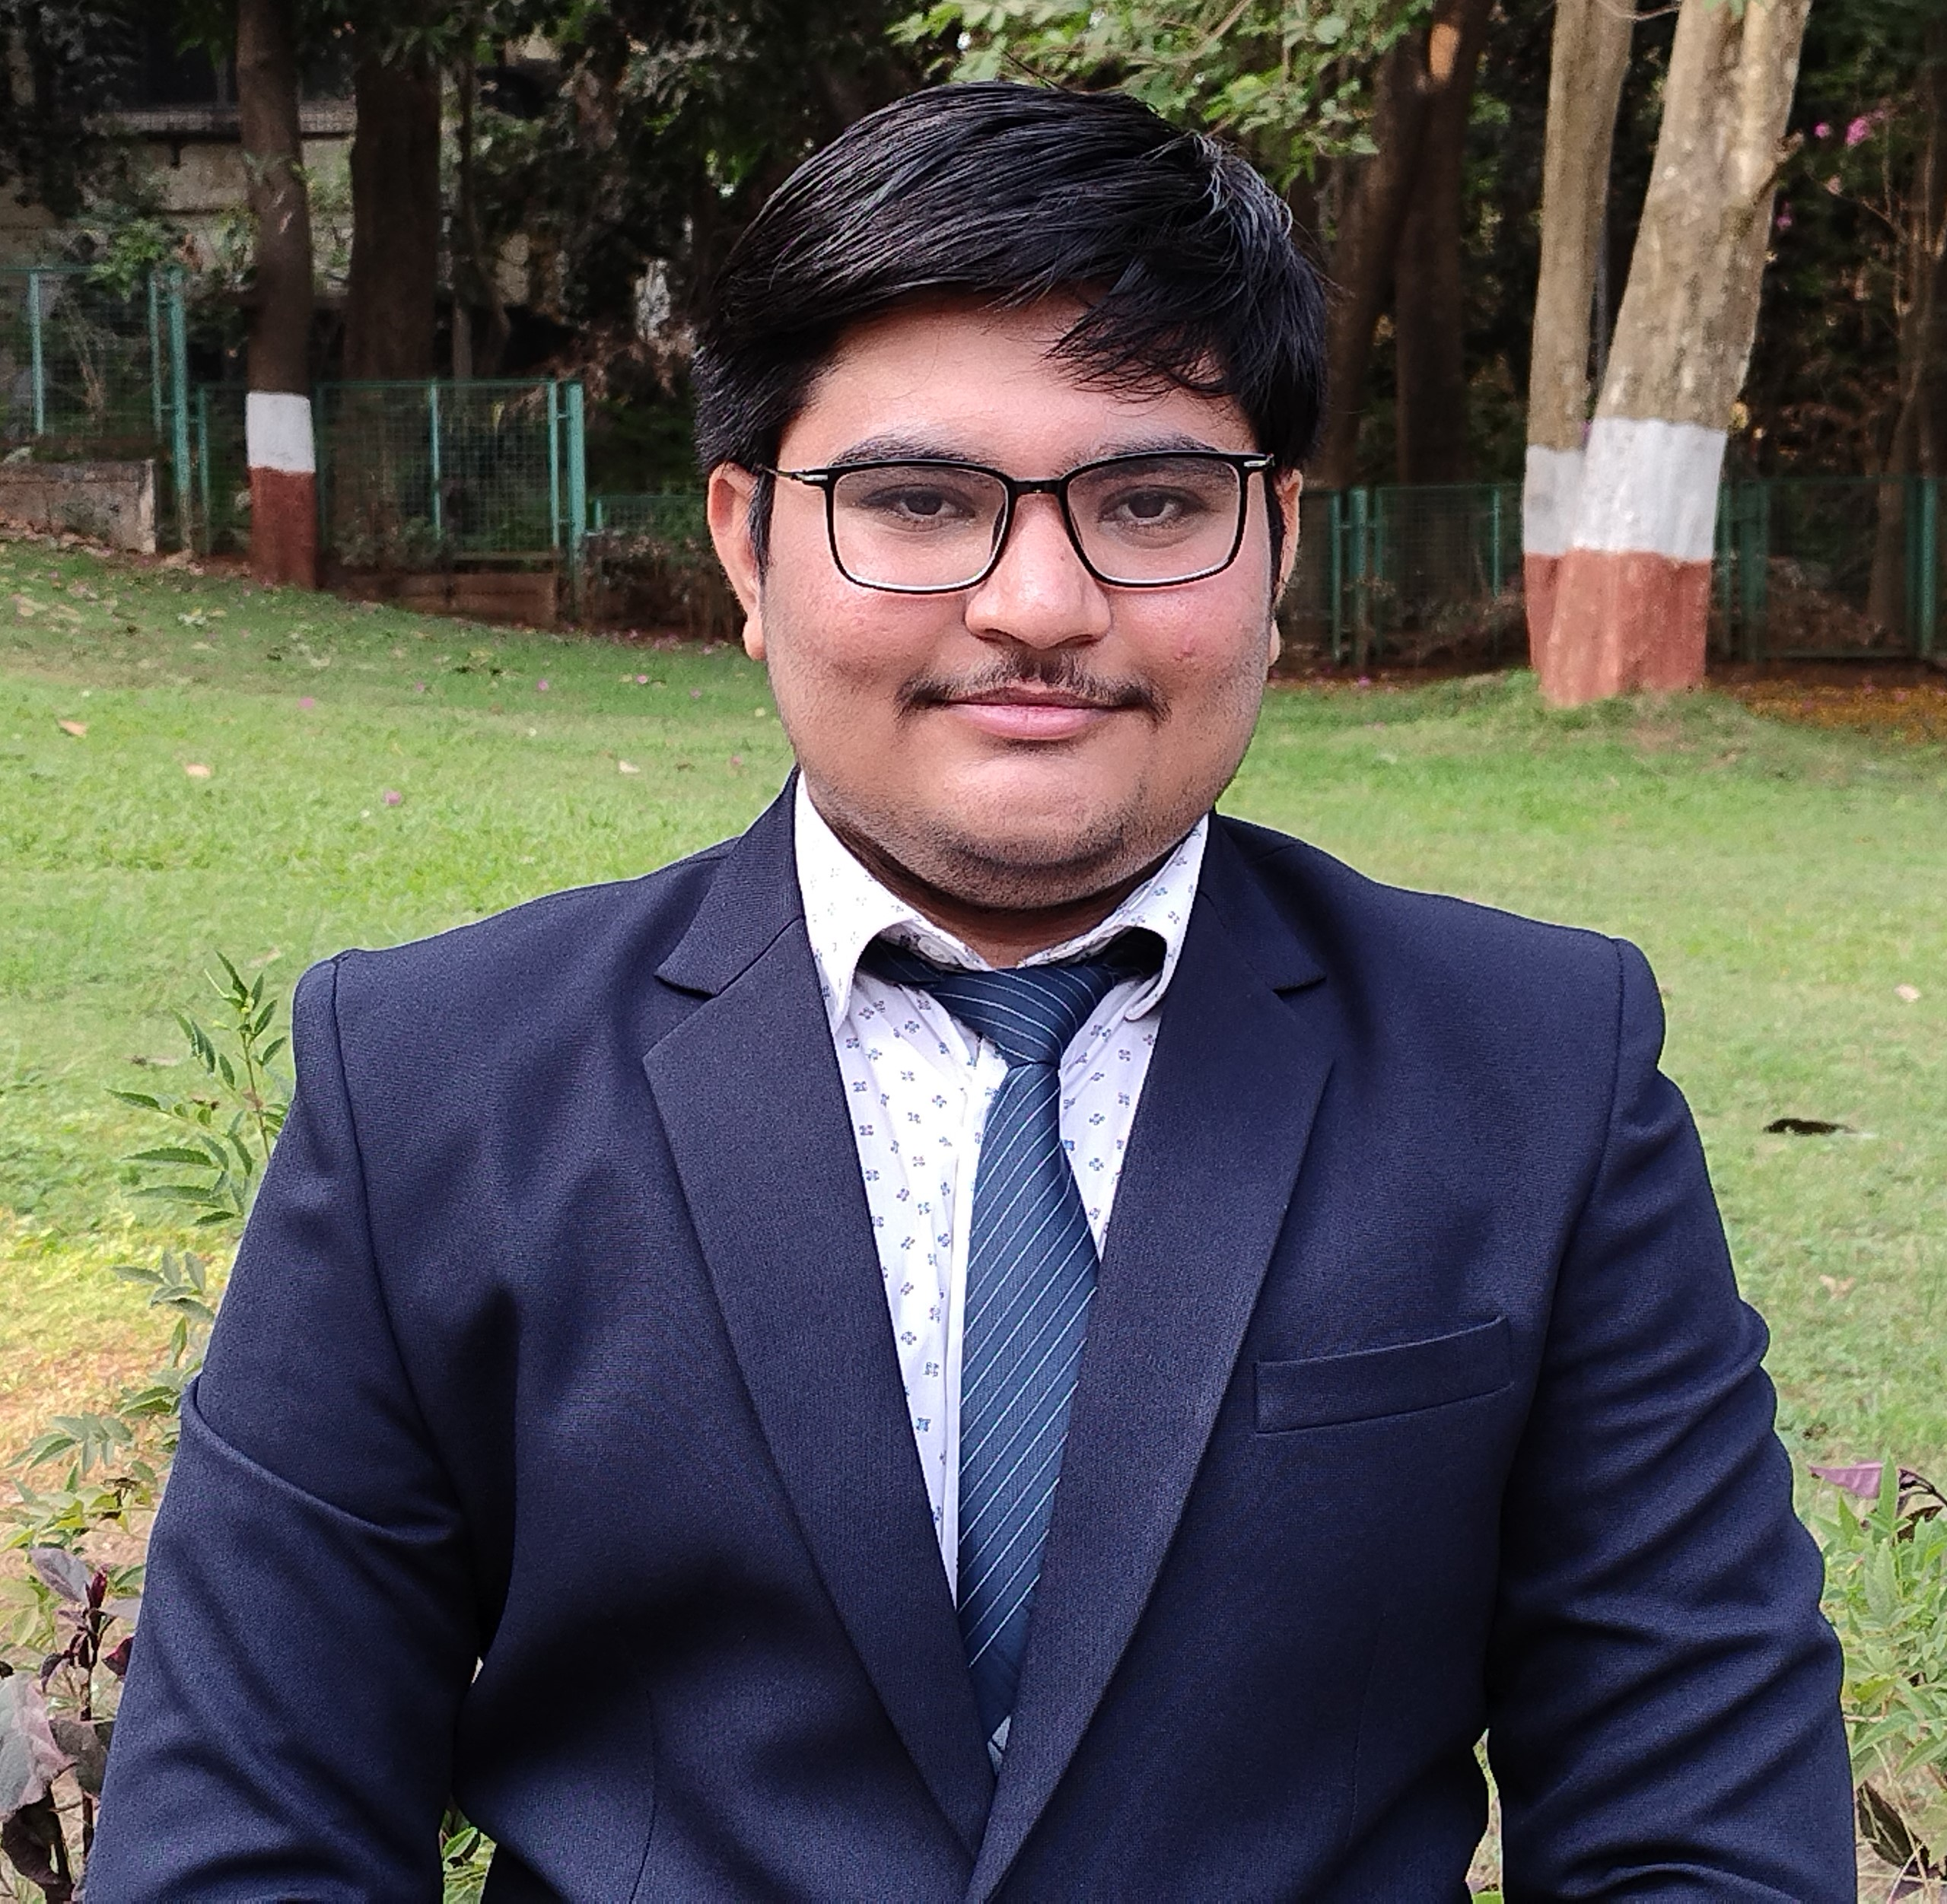
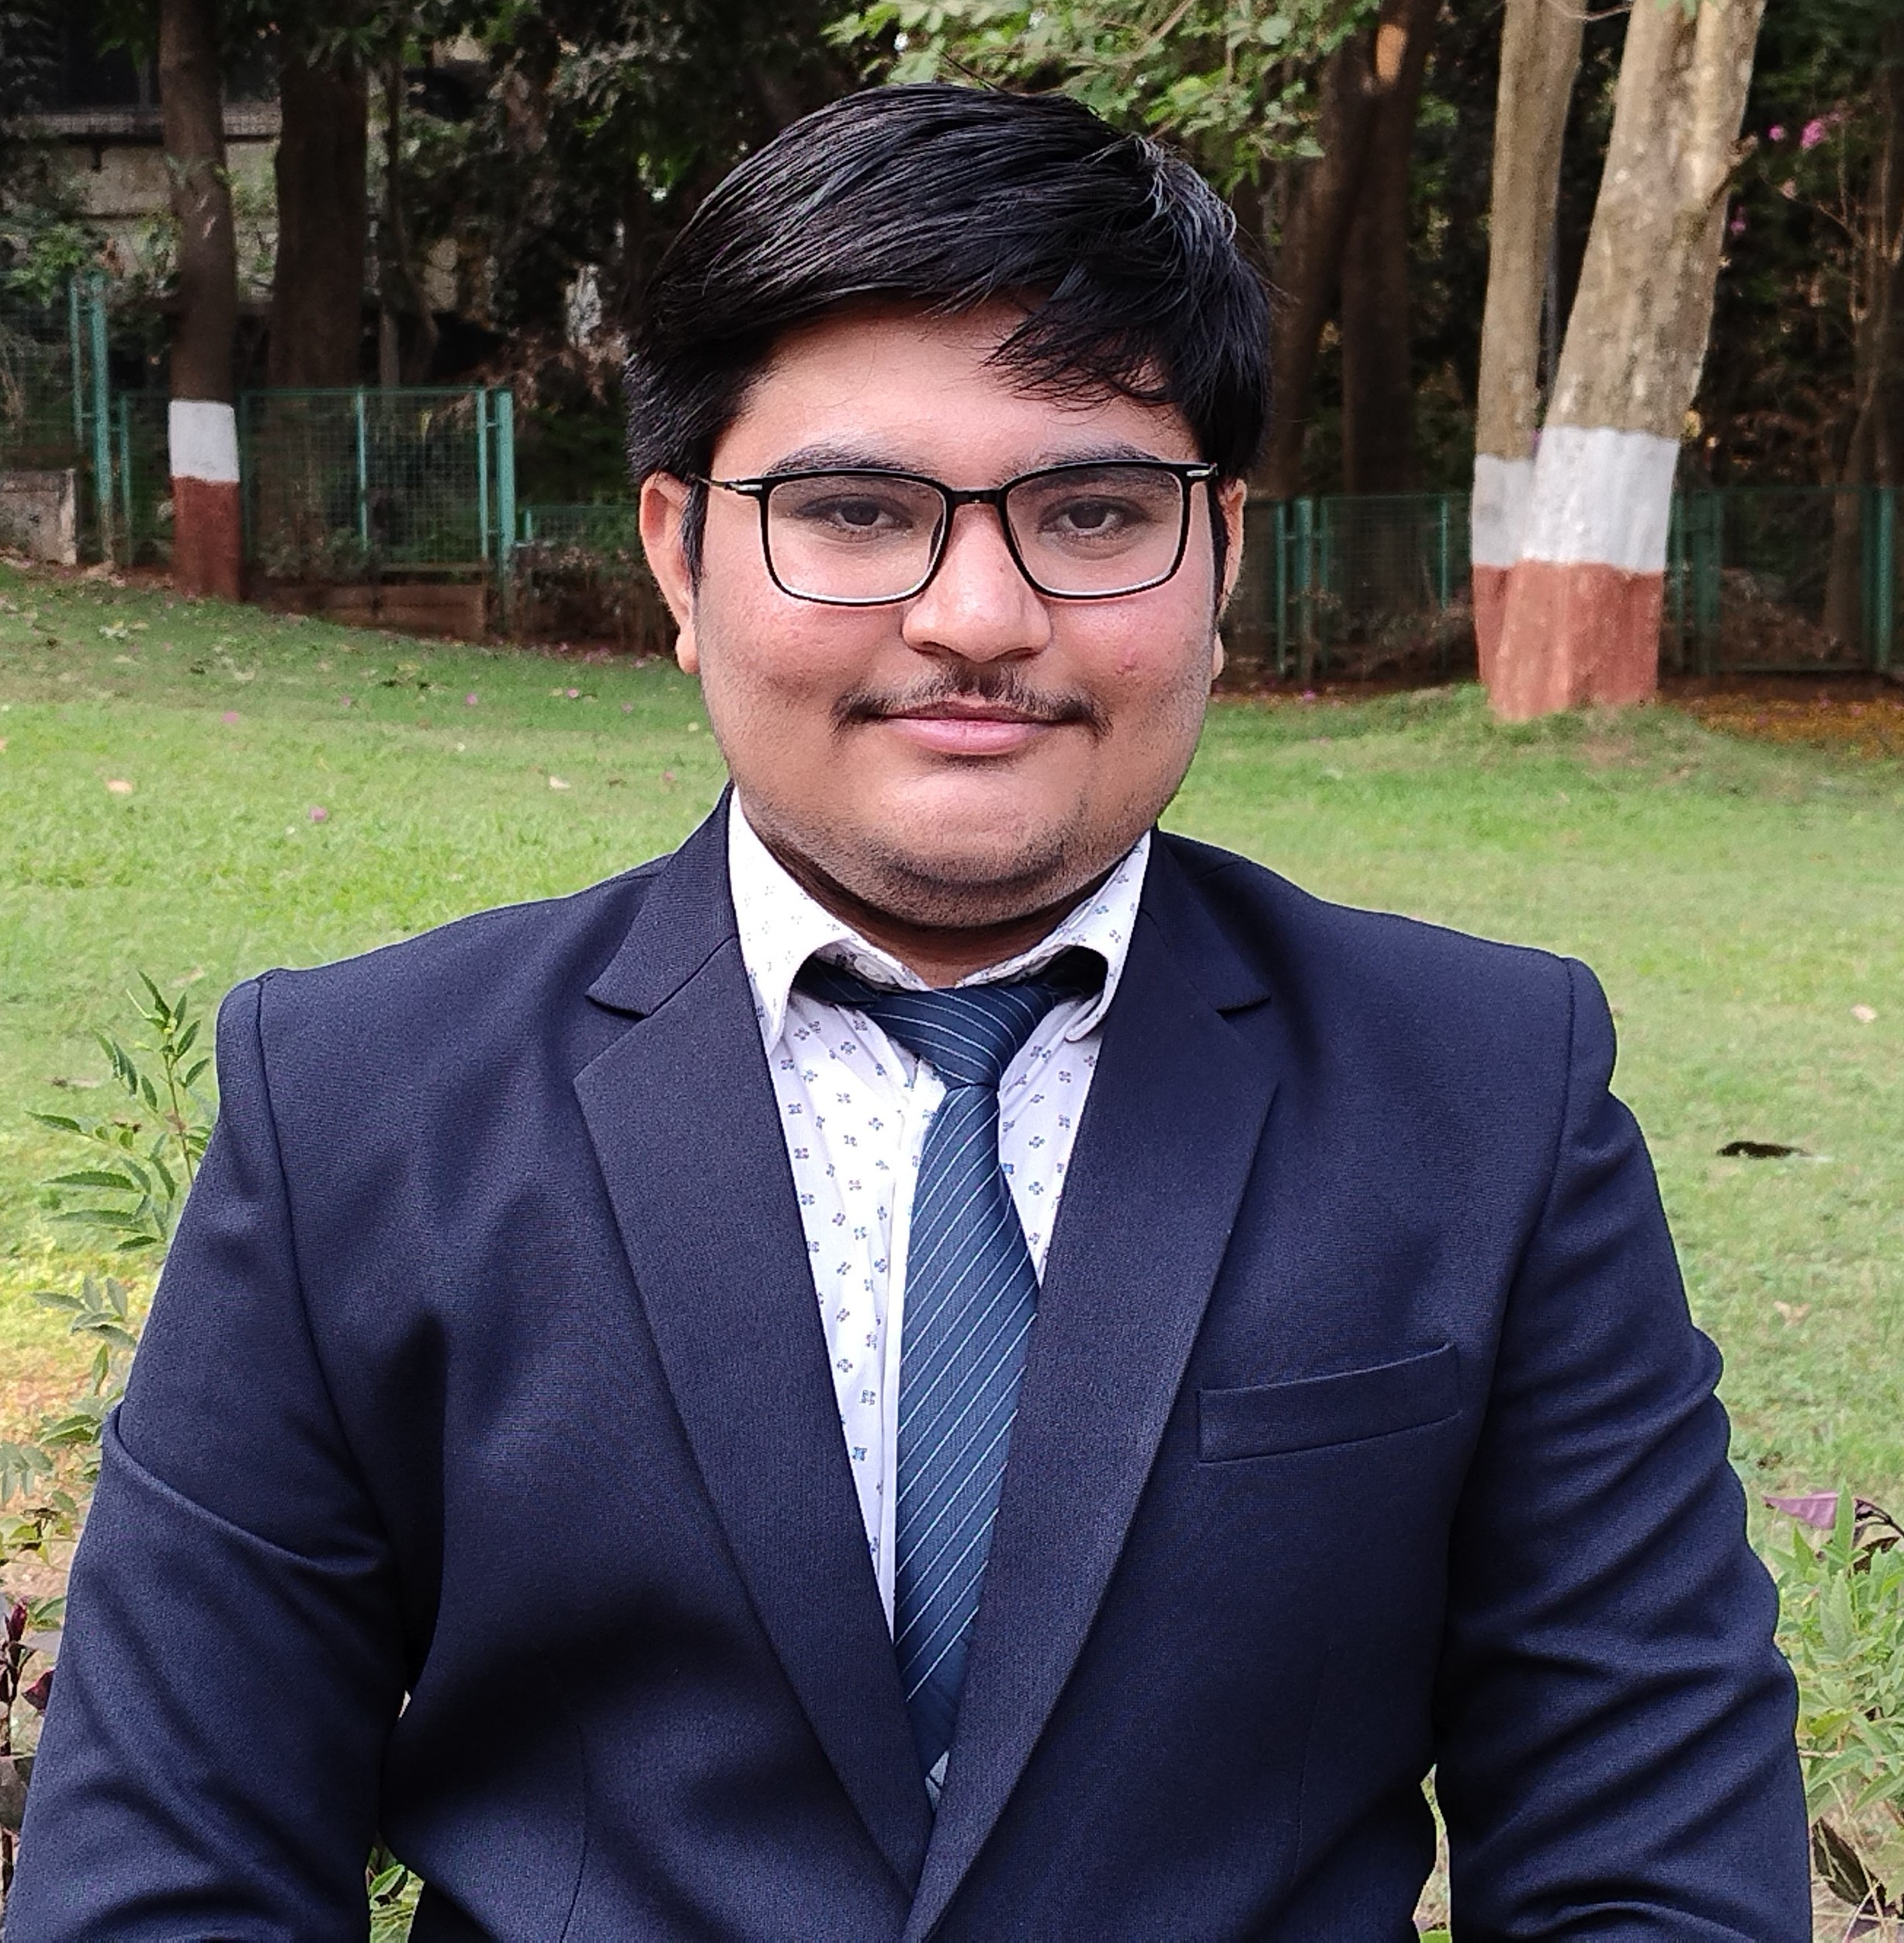
Updated Social Platforms

diff --git a/style.css b/style.css
@@ -109,121 +109,137 @@ nav a:hover{
    HERO
 =========================== */
 
-#hero{
-
-    display:flex;
-
-    flex-direction:column;
-
-    justify-content:center;
-
-    align-items:center;
-
-    text-align:center;
-
-    min-height:90vh;
-
+#hero {
+    display: flex;
+    flex-direction: column;
+    justify-content: center;
+    align-items: center;
+    min-height: 90vh;
+    text-align: center;
 }
 
-#hero img{
+.hero-image {
+    width: 220px;
+    height: 220px;
+    margin-bottom: 35px;
 
-    width:220px;
+    object-fit: cover;
 
-    height:220px;
-
-    object-fit:cover;
-
-    border-radius:50%;
-
-    border:5px solid #58a6ff;
-
-    margin-bottom:35px;
-
+    border: 5px solid #58a6ff;
+    border-radius: 50%;
 }
 
-#hero h1{
-
-    font-size:4rem;
-
-    margin-bottom:10px;
+#hero h1 {
+    margin-bottom: 10px;
+    font-size: 4rem;
 }
 
-#hero h2{
-
-    color:#58a6ff;
-
-    margin-bottom:25px;
-
-    font-weight:500;
+#hero h2 {
+    margin-bottom: 25px;
+    color: #58a6ff;
+    font-weight: 500;
 }
 
-#hero p{
+#hero p {
+    max-width: 700px;
+    margin-bottom: 40px;
 
-    max-width:700px;
-
-    color:#b0bac5;
-
-    font-size:1.1rem;
-
-    margin-bottom:40px;
-
+    color: #b0bac5;
+    font-size: 1.1rem;
 }
 
 
 /* ===========================
-   BUTTONS
+   HERO ACTIONS
 =========================== */
 
-#hero div{
-
-    display:flex;
-
-    gap:20px;
-
-    flex-wrap:wrap;
-
-    justify-content:center;
-
-}
-
-#hero a{
-
-    text-decoration:none;
-
-    padding:14px 32px;
-
-    border-radius:10px;
-
-    transition:.3s;
-
-    font-weight:600;
-
+.hero-actions {
+    display: flex;
+    justify-content: center;
+    align-items: center;
+    flex-wrap: wrap;
+    gap: 30px;
 }
 
 
-/* Resume */
+/* ===========================
+   RESUME BUTTON
+=========================== */
 
-#hero a:first-child{
+.resume-btn {
+    display: flex;
+    align-items: center;
+    gap: 10px;
 
-    background:#58a6ff;
+    padding: 14px 28px;
 
-    color:white;
+    background: #58a6ff;
+    color: #fff;
+
+    border-radius: 10px;
+    text-decoration: none;
+    font-weight: 600;
+
+    transition: all 0.3s ease;
 }
 
-/* GitHub + LinkedIn */
-
-#hero a:not(:first-child){
-
-    border:1px solid #58a6ff;
-
-    color:#58a6ff;
-
+.resume-btn:hover {
+    transform: translateY(-3px);
 }
 
-#hero a:hover{
 
-    transform:translateY(-3px);
+/* ===========================
+   SOCIAL LINKS
+=========================== */
 
+.social-links {
+    display: flex;
+    gap: 20px;
+}
+
+.social-links a {
+    display: flex;
+    justify-content: center;
+    align-items: center;
+
+    width: 52px;
+    height: 52px;
+
+    border: 1px solid #30363d;
+    border-radius: 50%;
+
+    color: #58a6ff;
+    text-decoration: none;
+
+    transition: all 0.3s ease;
+}
+
+.social-links a:hover {
+    background: #58a6ff;
+    transform: translateY(-3px);
+}
+
+
+/* Font Awesome icons */
+
+.social-links i {
+    font-size: 1.5rem;
+    transition: color 0.3s ease;
+}
+
+.social-links a:hover i {
+    color: #fff;
+}
+
+
+/* Credly logo */
+
+.social-links img {
+    width: 26px;
+    height: 26px;
+
+    object-fit: contain;
+    display: block;
 }
 
 

diff --git a/index.html b/index.html
@@ -38,13 +38,13 @@
 
                 <li><a href="#about">About</a></li>
 
-                <li><a href="#projects">Projects</a></li>
-
                 <li><a href="#skills">Skills</a></li>
 
                 <li><a href="#experience">Experience</a></li>
 
                 <li><a href="#education">Education</a></li>
+
+                <li><a href="#projects">Projects</a></li>
 
                 <li><a href="#contact">Contact</a></li>
 
@@ -62,7 +62,7 @@
 
         <section id="hero">
 
-            <img src="images/self.jpg" alt="Shiv Modi">
+            <img src="images/self.jpg" alt="Shiv Modi" class="hero-image">
 
             <h1>Shiv Modi</h1>
 
@@ -73,7 +73,7 @@
                 solutions.
             </p>
 
-            <div>
+            <!-- <div>
 
                 <a href="resume/shiv-modi-resume.pdf" target="_blank">
                     Resume
@@ -94,6 +94,45 @@
                 <a href="https://shivmodi21.medium.com/" target="_blank">
                     Medium
                 </a>
+
+            </div> -->
+
+            <div class="hero-actions">
+
+                <a href="resume/shiv-modi-resume.pdf"
+                target="_blank"
+                class="resume-btn">
+                    <i class="fa-solid fa-file-arrow-down"></i>
+                    Resume
+                </a>
+
+                <div class="social-links">
+
+                    <a href="https://github.com/shivmodi21"
+                    target="_blank"
+                    title="GitHub">
+                        <i class="fa-brands fa-github"></i>
+                    </a>
+
+                    <a href="https://linkedin.com/in/shivmodi210"
+                    target="_blank"
+                    title="LinkedIn">
+                        <i class="fa-brands fa-linkedin"></i>
+                    </a>
+
+                    <a href="https://medium.com/@shivmodi21"
+                    target="_blank"
+                    title="Medium">
+                        <i class="fa-brands fa-medium"></i>
+                    </a>
+
+                    <a href="https://www.credly.com/users/shivmodi210"
+                    target="_blank"
+                    title="Credly">
+                        <img src="logo/credly.png" alt="Credly">
+                    </a>
+
+                </div>
 
             </div>
 
@@ -119,19 +158,6 @@
             </p>
 
         </section>
-
-
-
-        <!-- ================= FEATURED PROJECTS ================= -->
-
-        <section id="projects">
-
-            <h2>Featured Projects</h2>
-
-            <!-- Project cards will go here -->
-
-        </section>
-
 
 
         <!-- ================= SKILLS ================= -->
@@ -438,6 +464,15 @@
         </section>
 
 
+        <!-- ================= FEATURED PROJECTS ================= -->
+
+        <section id="projects">
+
+            <h2>Featured Projects</h2>
+
+            <!-- Project cards will go here -->
+
+        </section>
 
         <!-- ================= CONTACT ================= -->
 
@@ -459,23 +494,23 @@
                 </div>
 
                 <div class="contact-item">
+                    <i class="fa-solid fa-phone"></i>
+
+                    <div>
+                        <h3>Phone</h3>
+                        <a href="tel:+918469402099">
+                            +91 84694 02099
+                        </a>
+                    </div>
+                </div>
+
+                <div class="contact-item">
                     <i class="fa-brands fa-linkedin"></i>
 
                     <div>
                         <h3>LinkedIn</h3>
                         <a href="https://linkedin.com/in/shivmodi210" target="_blank">
                             linkedin.com/in/shivmodi210
-                        </a>
-                    </div>
-                </div>
-
-                <div class="contact-item">
-                    <i class="fa-brands fa-github"></i>
-
-                    <div>
-                        <h3>GitHub</h3>
-                        <a href="https://github.com/shivmodi21" target="_blank">
-                            github.com/shivmodi21
                         </a>
                     </div>
                 </div>